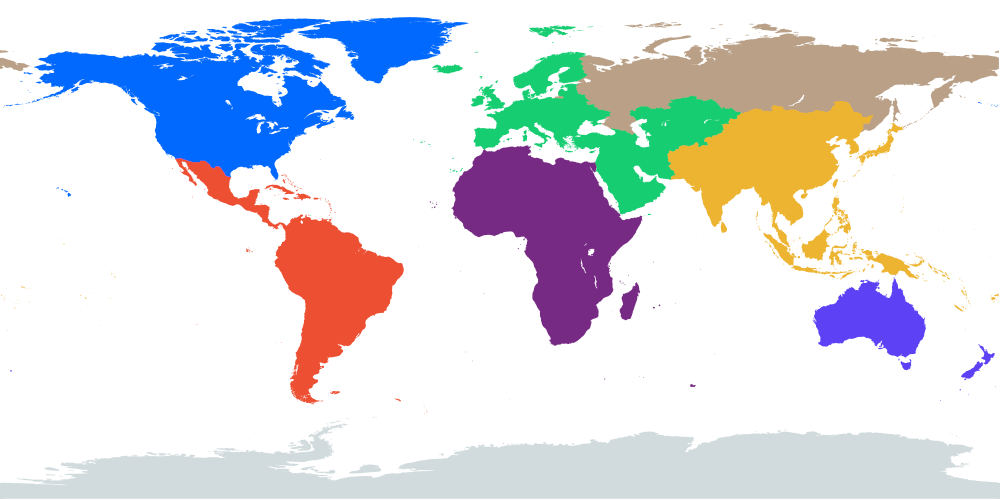
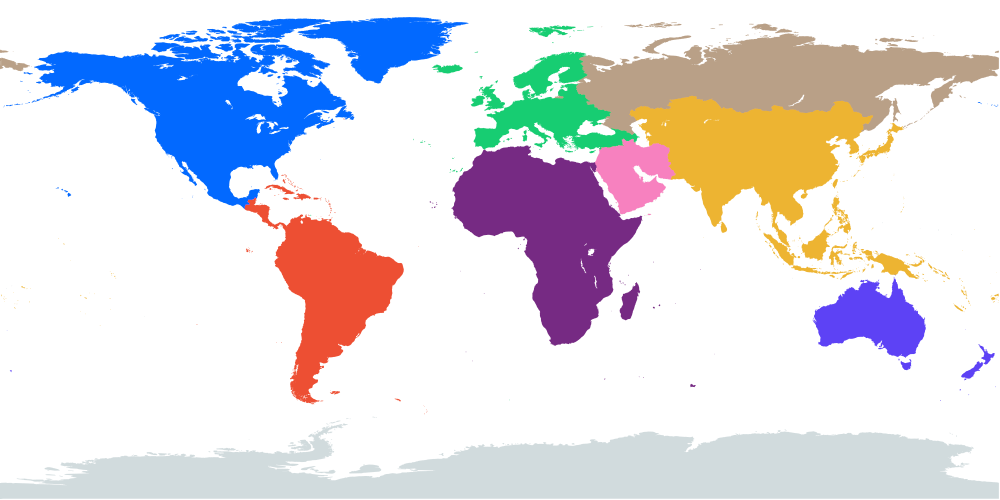
Update regions

Changed region(s): [[0.589, 0.18, 0.744, 0.45], [0.155, 0.3, 0.279, 0.42]]

diff --git a/src/components/Globe/Globe.tsx b/src/components/Globe/Globe.tsx
@@ -85,11 +85,12 @@ const SERVERS = [
 
 const REGION_MAP = {
   na: 'North America',
-  sa: 'Latin America',
-  eu: 'Eurasia',
+  sa: 'South America',
+  eu: 'Europe',
   ap: 'Asia Pacific',
   au: 'Australia',
   af: 'Africa',
+  me: 'Middle East',
   ru: 'Russia (Not Available)',
 };
 
@@ -124,19 +125,12 @@ const Scene = () => {
 
   useFrame((_, delta) => {
     if (mapIns && globeGroupRef.current) {
-      if (globeGroupRef.current.scale.x < 1) {
-        globeGroupRef.current.scale.x = Math.min(
-          1,
-          globeGroupRef.current.scale.x + 0.625 * delta
-        );
-        globeGroupRef.current.scale.y = Math.min(
-          1,
-          globeGroupRef.current.scale.y + 0.625 * delta
-        );
-        globeGroupRef.current.scale.z = Math.min(
-          1,
-          globeGroupRef.current.scale.z + 0.625 * delta
-        );
+      const { scale } = globeGroupRef.current;
+
+      if (scale.x < 1) {
+        scale.x = Math.min(1, scale.x + 0.625 * delta);
+        scale.y = Math.min(1, scale.y + 0.625 * delta);
+        scale.z = Math.min(1, scale.z + 0.625 * delta);
       }
     }
   });
@@ -240,7 +234,7 @@ const Globe = () => {
     <StyledGlobe>
       <Leva collapsed hidden />
       <Canvas
-        dpr={1}
+        dpr={2}
         gl={{
           antialias: true,
         }}

diff --git a/src/components/Globe/components/Sphere/Sphere.tsx b/src/components/Globe/components/Sphere/Sphere.tsx
@@ -36,8 +36,6 @@ const Sphere = ({ worldmap }: any) => {
   const mousePos = useRef<{
     x: number;
     y: number;
-    realX: number;
-    realY: number;
   } | null>(null);
 
   useEffect(() => {
@@ -124,11 +122,14 @@ const Sphere = ({ worldmap }: any) => {
           const x = (event.offsetX / size.width) * 2 - 1;
           const y = -(event.offsetY / size.height) * 2 + 1;
 
+          console.log({
+            offsetX: event.offsetX,
+            offsetY: event.offsetY,
+          });
+
           mousePos.current = {
             x: x,
             y: y,
-            realX: event.offsetX,
-            realY: event.offsetY,
           };
         }}
         onPointerLeave={() => {

diff --git a/src/components/Globe/utils/index.ts b/src/components/Globe/utils/index.ts
@@ -57,6 +57,13 @@ const regionColors = {
   ap: [{ r: 237, g: 180, b: 50 }],
   af: [{ r: 118, g: 42, b: 131 }],
   ru: [{ r: 185, g: 160, b: 135 }],
+  me: [
+    {
+      r: 247,
+      g: 129,
+      b: 191,
+    },
+  ],
   'n/a': [{ r: 209, g: 219, b: 221 }],
 };
 
@@ -82,6 +89,9 @@ export const getRegionFromColor = (r: number, g: number, b: number) => {
     }
     case regionColors.au.some((color) => isSimilarColor({ r, g, b }, color)): {
       return 'au';
+    }
+    case regionColors.me.some((color) => isSimilarColor({ r, g, b }, color)): {
+      return 'me';
     }
     case regionColors['n/a'].some((color) =>
       isSimilarColor({ r, g, b }, color)

diff --git a/src/components/Globe/store/index.ts b/src/components/Globe/store/index.ts
@@ -3,13 +3,9 @@ import create from 'zustand';
 type Store = {
   region: any;
   setRegion: (region: any) => void;
-  mouse: any;
-  setMouse: (mouse: any) => void;
 };
 
 export const useStore = create<Store>((set) => ({
   region: null,
   setRegion: (region) => set((state) => ({ region })),
-  mouse: { x: 0, y: 0 },
-  setMouse: (mouse) => set((state) => ({ mouse })),
 }));

diff --git a/src/components/Globe/components/Dots/Dots.tsx b/src/components/Globe/components/Dots/Dots.tsx
@@ -23,6 +23,7 @@ const REGION_COLOR = {
   au: '#5d42f5',
   af: '#321e79',
   ru: '#151b37',
+  me: '#751d42',
   'n/a': '#151b37',
 };
 
